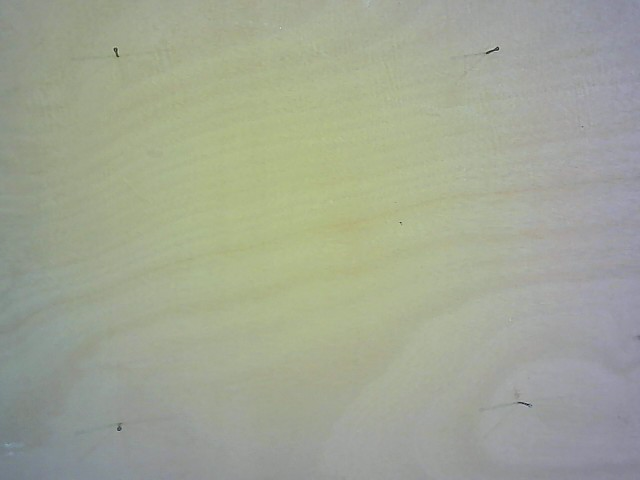
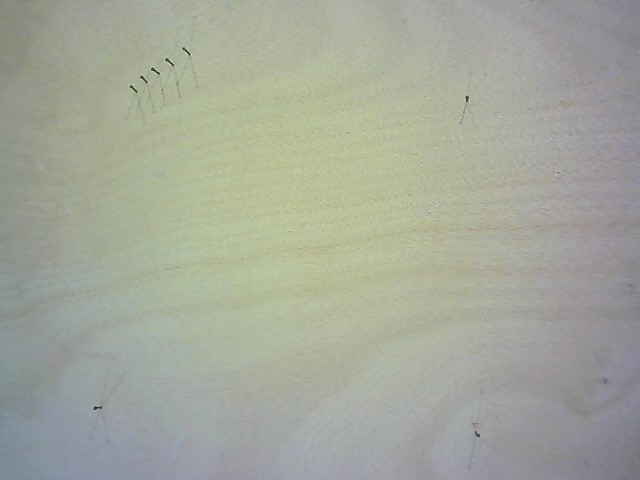
nail clustering

diff --git a/main.py b/main.py
@@ -29,6 +29,29 @@ def plot_image(image: Image):
     plt.imshow(image, cmap='gray', vmin=BLACK, vmax=WHITE)
     plt.show()
 
+def threshold_contrast(board, threshold):
+    for i in range(len(board)):
+        for j in range(len(board[i])):
+            pxl = board[i][j]
+            if pxl <= threshold:
+                board[i][j] = 0
+            else:
+                board[i][j] = 255
+    return board
+
+def nail_coordinates(nails_list, z_camera, image_shape, focal_length=1):
+    image_center_x, image_center_y = image_shape[:2] / 2
+
+    # Calculate the coordinates for each pixel in the list
+    coordinates = []
+    for nail in nails_list:
+        x_nail, y_nail = nail
+        x = (x_nail - image_center_x) * (z_camera / focal_length)
+        y = (y_nail - image_center_y) * (z_camera / focal_length)
+
+        coordinates.append((x, y))
+
+    return coordinates
 
 def main_1():
     mona = read_image("Images/hendrix.jpg")
@@ -67,15 +90,13 @@ def main_anim():
 def main_cap():
     mona = read_image("Images/MonaLisa.jpeg")
     board = read_image("captured.png")
+    THRESH = 140
     negative = 255 - board
     negative = skimage.filters.gaussian(negative,
                                         sigma=1,
                                         preserve_range=True)
-    for i in range(len(negative)):
-        for j in range(len(negative[i])):
-            pxl = negative[i][j]
-            if pxl < 140:
-                negative[i][j] = 0
+    thresh = 1.6*np.math.floor(np.mean(negative))
+    negative = threshold_contrast(negative, thresh)
     plot_image(negative)
     # loom = Loom(mona, board)
     # print(loom.nails)
@@ -86,11 +107,23 @@ def main_cap():
     plt.imshow(board)
     bl = blob_log(negative/255)
     nails = [(int(c[0]), int(c[1])) for c in bl]
-    plt.scatter([n[1] for n in nails],
-                [n[0] for n in nails])
-    plt.show()
+
     print(nails)
-    # print(blob_log(negative/255))
+    new_nails = []
+    epsilon = 7
+    for nail in nails:
+        good_nail = True
+        for nn in new_nails:
+            if np.math.dist(nail, nn) < epsilon:
+                # they are the same nail, probably
+                good_nail = False
+                break
+        if good_nail:
+            new_nails.append(nail)
+    print(new_nails)
+    plt.scatter([n[1] for n in new_nails],
+                [n[0] for n in new_nails])
+    plt.show()
 
 
 if __name__ == '__main__':
